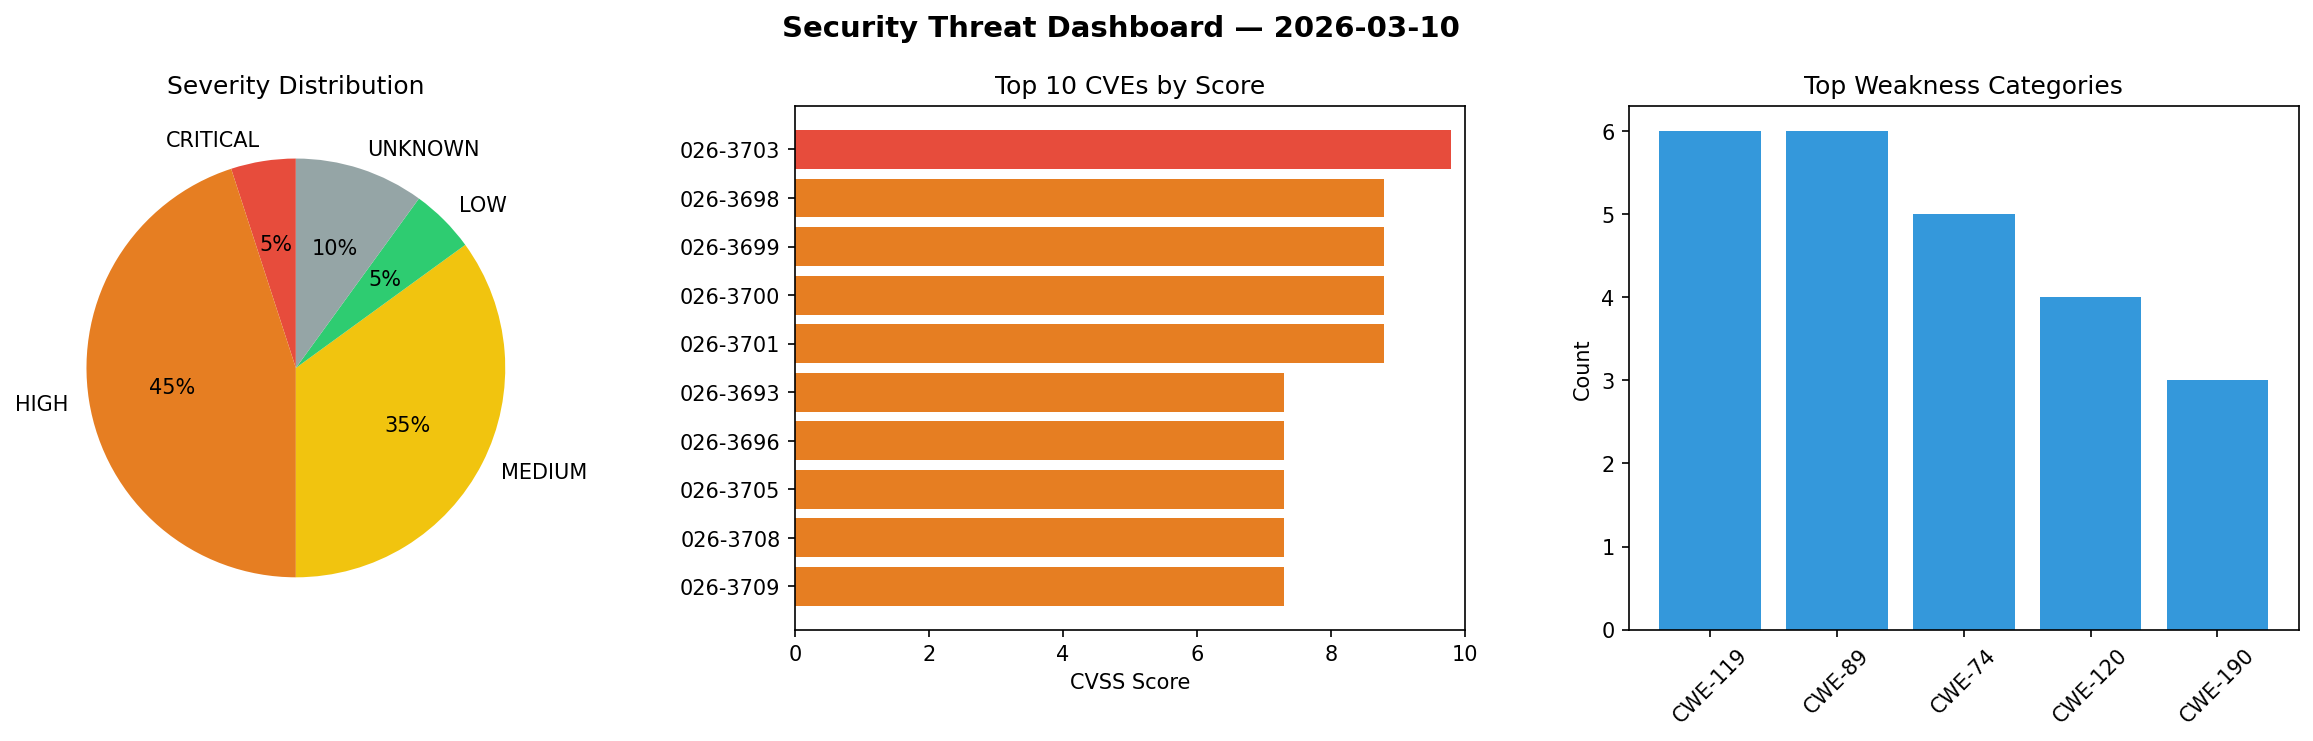
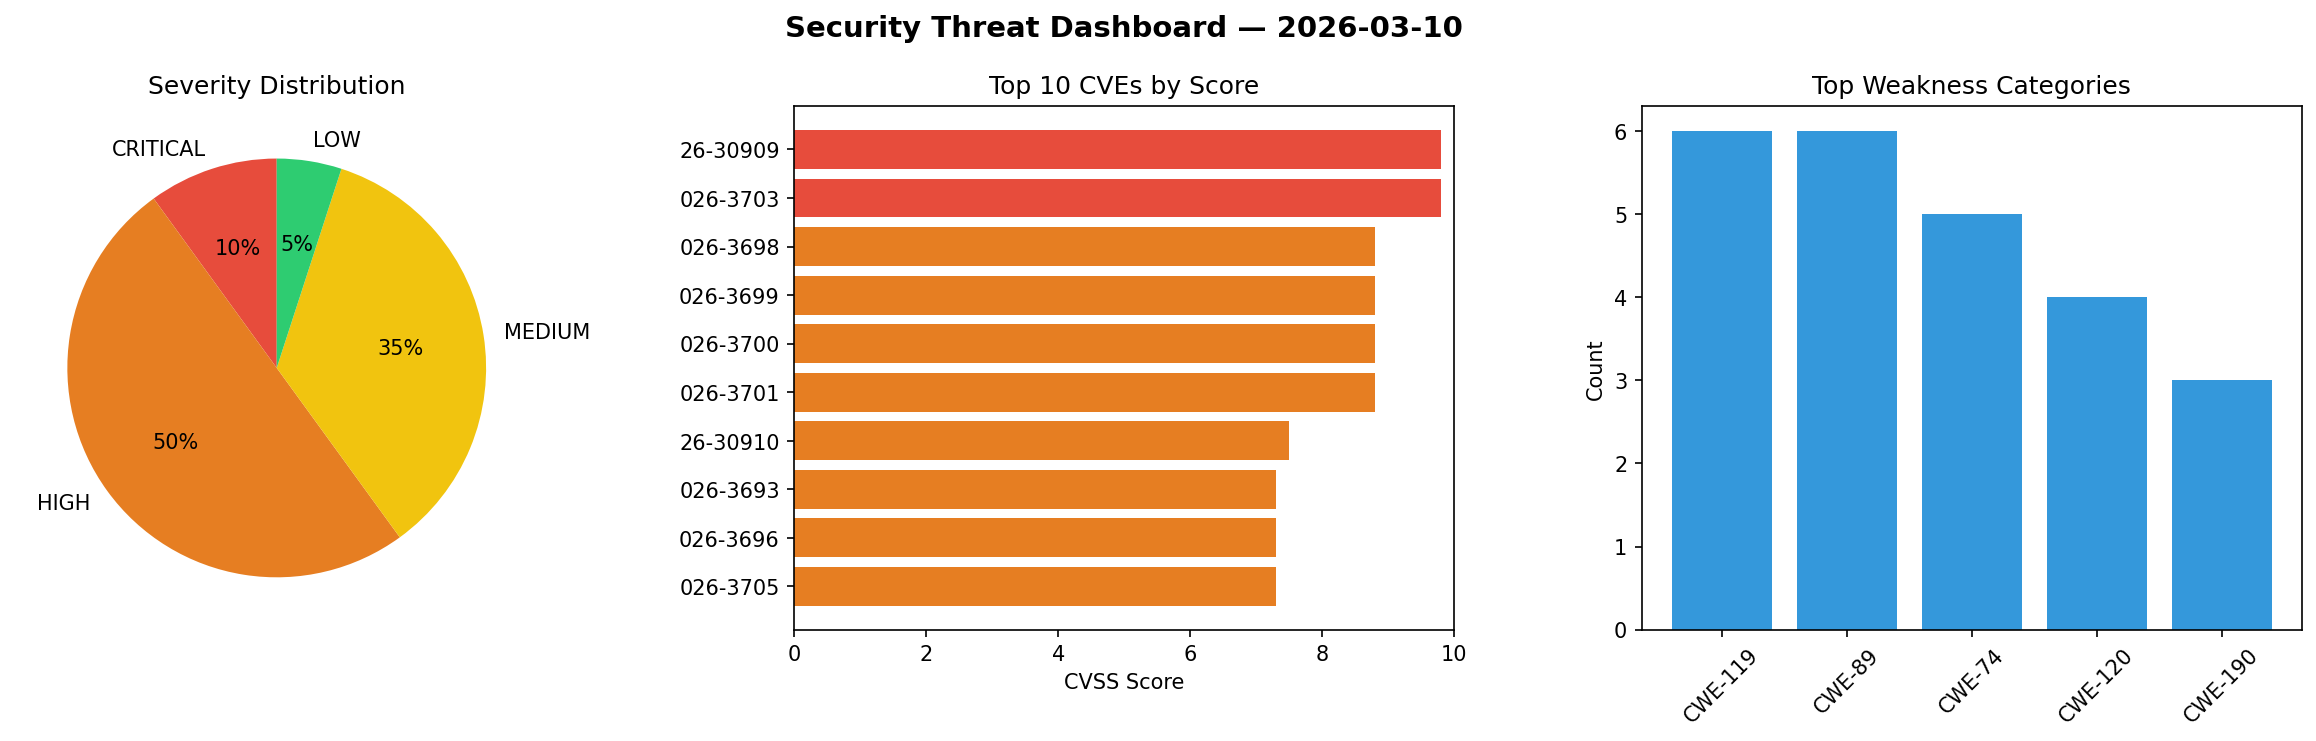
daily-experiments: security scan 2026-03-10T20:55

diff --git a/logs/2026-03-10.md b/logs/2026-03-10.md
@@ -1,6 +1,6 @@
 # Security Scan Report — 2026-03-10
 
-**Scan ID:** `ba88f10038` | **CVEs:** 20 | **Threat Index:** 337.4
+**Scan ID:** `85f4ed2c55` | **CVEs:** 20 | **Threat Index:** 399.1
 
 ![Dashboard](2026-03-10_dashboard.png)
 
@@ -10,21 +10,20 @@
 
 | Metric | Value |
 |--------|-------|
-| Threat Index | 337.4 |
-| Critical CVEs | 1 |
-| CRITICAL | 1 |
-| HIGH | 9 |
+| Threat Index | 399.1 |
+| Critical CVEs | 2 |
+| CRITICAL | 2 |
+| HIGH | 10 |
 | MEDIUM | 7 |
 | LOW | 1 |
-| UNKNOWN | 2 |
 
 ## Delta vs Yesterday
 
 | Metric | Today | Yesterday | Change |
 |--------|-------|-----------|--------|
 | total_cves | 20 | 20 | ➡ 0.0% |
-| threat_index | 337.4 | 188.0 | 📈 79.5% |
-| critical_count | 1 | 0 | ➡ 0% |
+| threat_index | 399.1 | 188.0 | 📈 112.3% |
+| critical_count | 2 | 0 | ➡ 0% |
 
 ## Top Weakness Categories
 
@@ -40,11 +39,13 @@
 
 | CVE ID | Score | Severity | Description |
 |--------|-------|----------|-------------|
+| CVE-2026-30909 | 9.8 | CRITICAL | Crypt::NaCl::Sodium versions through 2.002 for Perl has potential integer overfl... |
 | CVE-2026-3703 | 9.8 | CRITICAL | A flaw has been found in Wavlink NU516U1 251208. This affects the function sub_4... |
 | CVE-2026-3698 | 8.8 | HIGH | A vulnerability was identified in UTT HiPER 810G up to 1.7.7-171114. This affect... |
 | CVE-2026-3699 | 8.8 | HIGH | A security flaw has been discovered in UTT HiPER 810G up to 1.7.7-171114. This i... |
 | CVE-2026-3700 | 8.8 | HIGH | A weakness has been identified in UTT HiPER 810G up to 1.7.7-171114. Affected is... |
 | CVE-2026-3701 | 8.8 | HIGH | A security vulnerability has been detected in H3C Magic B1 up to 100R004. Affect... |
+| CVE-2026-30910 | 7.5 | HIGH | Crypt::Sodium::XS versions through 0.001000 for Perl has potential integer overf... |
 | CVE-2026-3693 | 7.3 | HIGH | A flaw has been found in Shy2593666979 AgentChat up to 2.3.0. This issue affects... |
 | CVE-2026-3696 | 7.3 | HIGH | A vulnerability was found in Totolink N300RH 6..1c.1353_B20190305. The affected ... |
 | CVE-2026-3705 | 7.3 | HIGH | A vulnerability was found in code-projects Simple Flight Ticket Booking System 1... |
@@ -53,5 +54,3 @@
 | CVE-2026-3695 | 6.5 | MEDIUM | A vulnerability has been found in SourceCodester Modern Image Gallery App 1.0. I... |
 | CVE-2026-3682 | 6.3 | MEDIUM | A security vulnerability has been detected in welovemedia FFmate up to 2.0.15. T... |
 | CVE-2026-3683 | 6.3 | MEDIUM | A vulnerability was detected in bufanyun HotGo up to 2.0. This issue affects the... |
-| CVE-2026-3697 | 6.3 | MEDIUM | A vulnerability was determined in Planet ICG-2510 1.0_20250811. The impacted ele... |
-| CVE-2026-3707 | 5.3 | MEDIUM | A vulnerability was identified in MrNanko webp4j up to 1.3.x. The affected eleme... |
